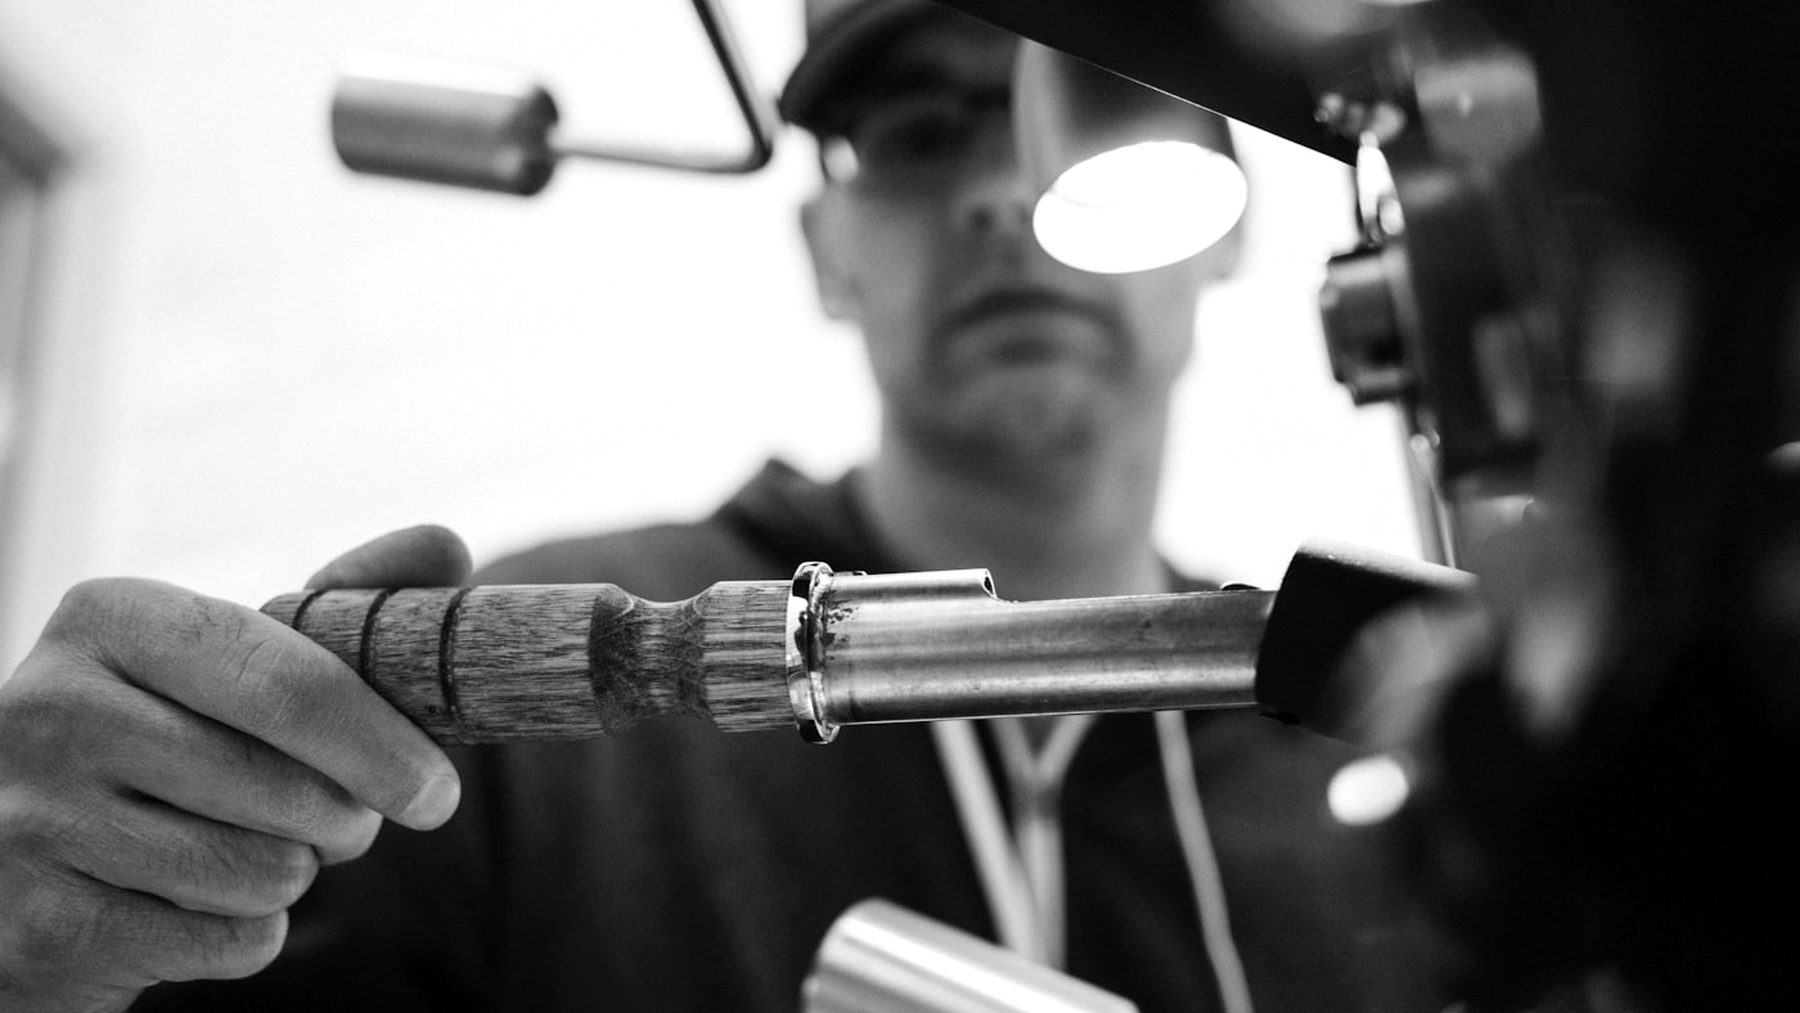
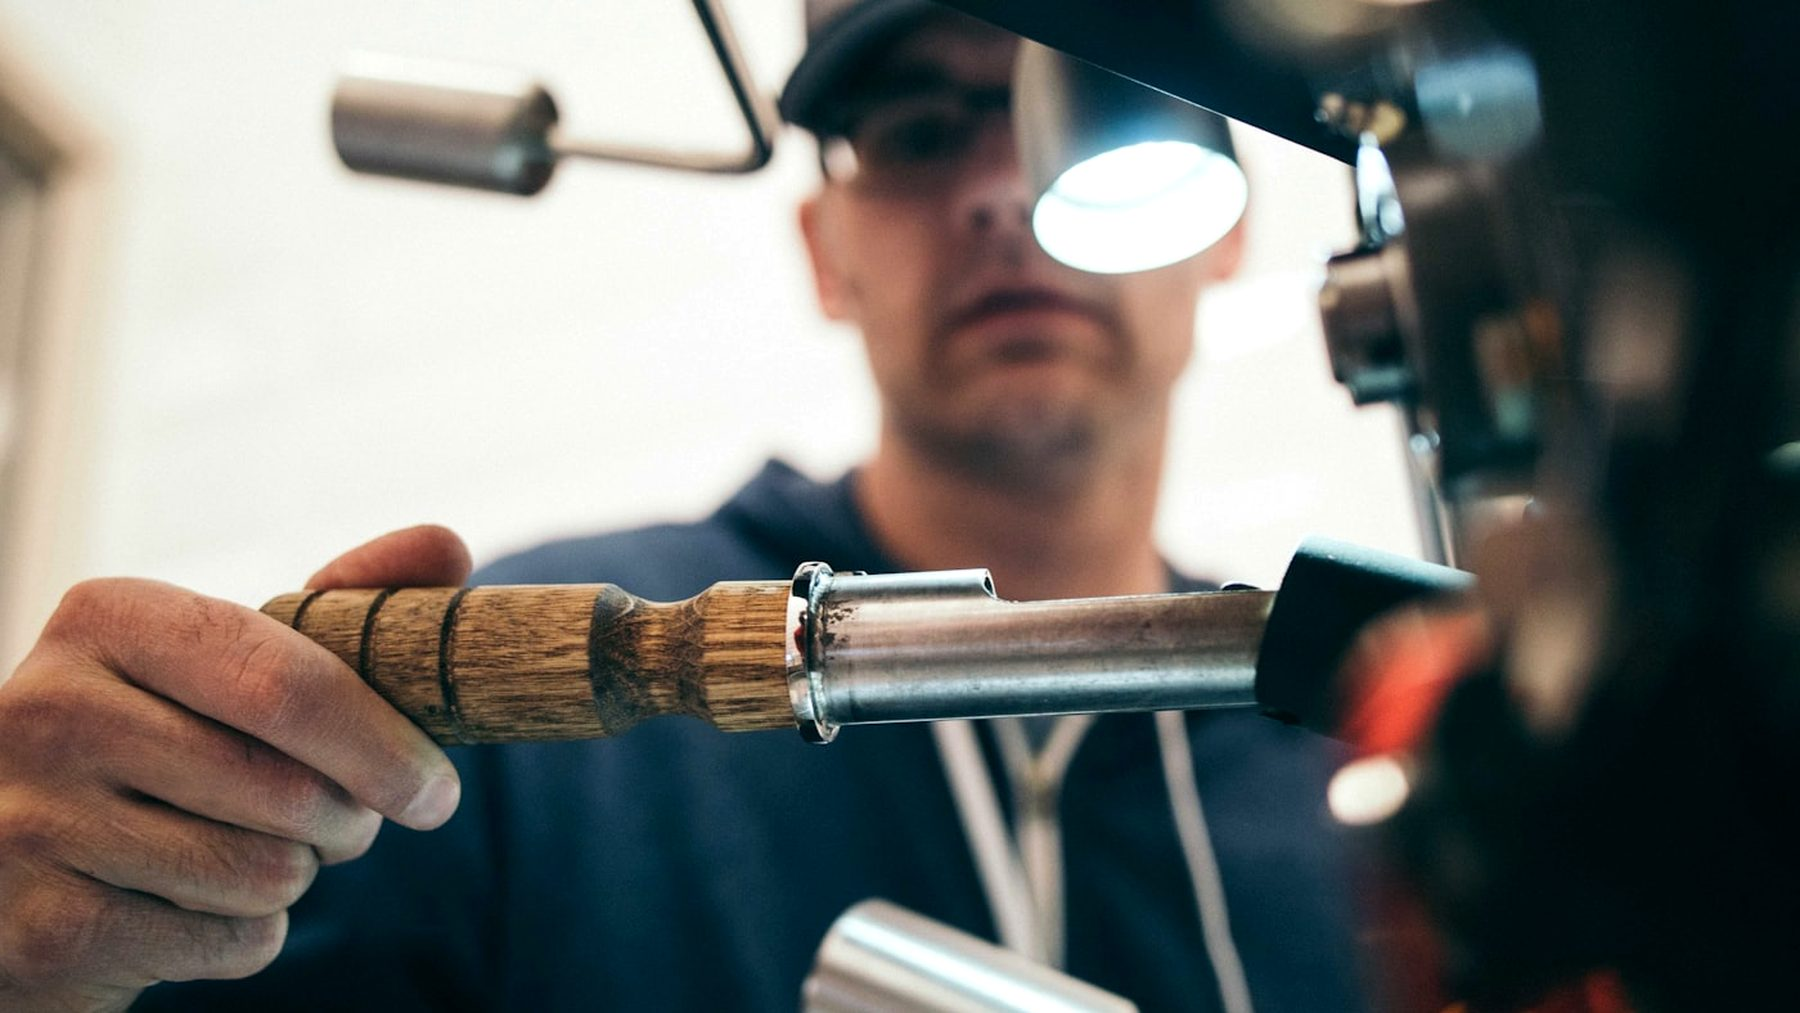
Restore colour photography and fix service card image sizing
- Regenerate every photo in full colour (van, hero and service shots)
- Swap the two inherently black-and-white stock shots for colour ones:
  a chrome kitchen mixer for taps, brick-wall pipework for hero 2
- Add height:auto to the global img rule so the HTML height attribute
  stops overriding aspect-ratio; service cards and the about photo now
  render at a true 4:3 instead of their full natural height

Claude-Session: https://claude.ai/code/session_01MMwZHjgTwEsqu357URnDG9

diff --git a/index.html b/index.html
@@ -41,7 +41,7 @@ body{
   -webkit-font-smoothing:antialiased;
   overflow-x:hidden;
 }
-img{max-width:100%;display:block;image-orientation:from-image}
+img{max-width:100%;height:auto;display:block;image-orientation:from-image}
 h1,h2,h3{font-family:'Outfit',sans-serif;color:var(--ink);line-height:1.12;margin:0 0 .6em}
 h1{font-size:clamp(2.5rem,6vw,4rem);font-weight:800;letter-spacing:-.02em}
 h2{font-size:clamp(1.85rem,3.6vw,2.6rem);font-weight:700;letter-spacing:-.015em}
@@ -213,7 +213,7 @@ footer .logo b{color:#c9ced3}
 .svc-card:hover{transform:translateY(-6px);box-shadow:var(--shadow)}
 .svc-card img{
   width:100%;aspect-ratio:4/3;object-fit:cover;
-  filter:grayscale(1) contrast(1.03);
+  filter:contrast(1.02);
 }
 .svc-body{padding:20px 22px 24px}
 .svc-tag{
@@ -232,7 +232,7 @@ footer .logo b{color:#c9ced3}
 .about-photo{position:relative}
 .about-photo img{
   width:100%;aspect-ratio:4/3;object-fit:cover;border-radius:var(--radius);
-  filter:grayscale(1) contrast(1.03);
+  filter:contrast(1.02);
 }
 .about-corner{
   position:absolute;left:-14px;bottom:-14px;
@@ -421,7 +421,7 @@ footer .logo .logo-text span{color:rgba(247,248,249,.62)}
   <section class="hero" id="hero">
     <div class="hero-slide on" style="background-image:url('img/hero-van.jpg')" role="img" aria-label="Two branded bsp plumbing vans parked at the Gisborne workshop"></div>
     <div class="hero-slide" style="background-image:url('img/hero-1.jpg')" role="img" aria-label="Plumber brazing a copper pipe joint"></div>
-    <div class="hero-slide" style="background-image:url('img/hero-2.jpg')" role="img" aria-label="Run of galvanised plumbing pipework and fittings"></div>
+    <div class="hero-slide" style="background-image:url('img/hero-2.jpg')" role="img" aria-label="Galvanised pipework, valves and a gas meter on a brick wall"></div>
     <div class="hero-badge">
       <img src="img/bsp-logo-light.png" alt="bsp" width="900" height="557">
       <span>Plumbing Drainage Gasfitting</span>
@@ -454,7 +454,7 @@ footer .logo .logo-text span{color:rgba(247,248,249,.62)}
       </div>
       <div class="svc-grid">
         <article class="svc-card reveal">
-          <img src="img/svc-taps.jpg" alt="Close-up of a dripping chrome mixer tap" width="1000" height="750" loading="lazy">
+          <img src="img/svc-taps.jpg" alt="Chrome mixer tap over a stainless steel kitchen sink" width="1000" height="750" loading="lazy">
           <div class="svc-body">
             <span class="svc-tag">
               <svg viewBox="0 0 24 24" fill="none" stroke="currentColor" stroke-width="2" stroke-linecap="round" stroke-linejoin="round"><path d="M12 22a7 7 0 0 0 7-7c0-2-1-3.9-3-5.5s-3.5-4-4-6.5c-.5 2.5-2 4.9-4 6.5C6 11.1 5 13 5 15a7 7 0 0 0 7 7z"/></svg>
